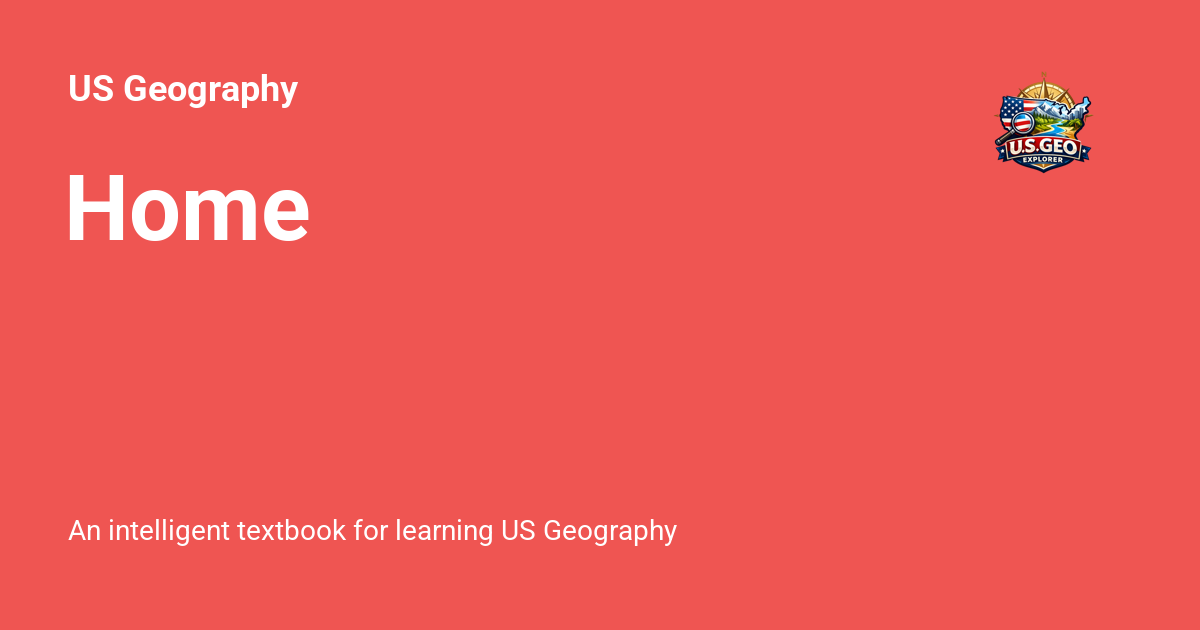
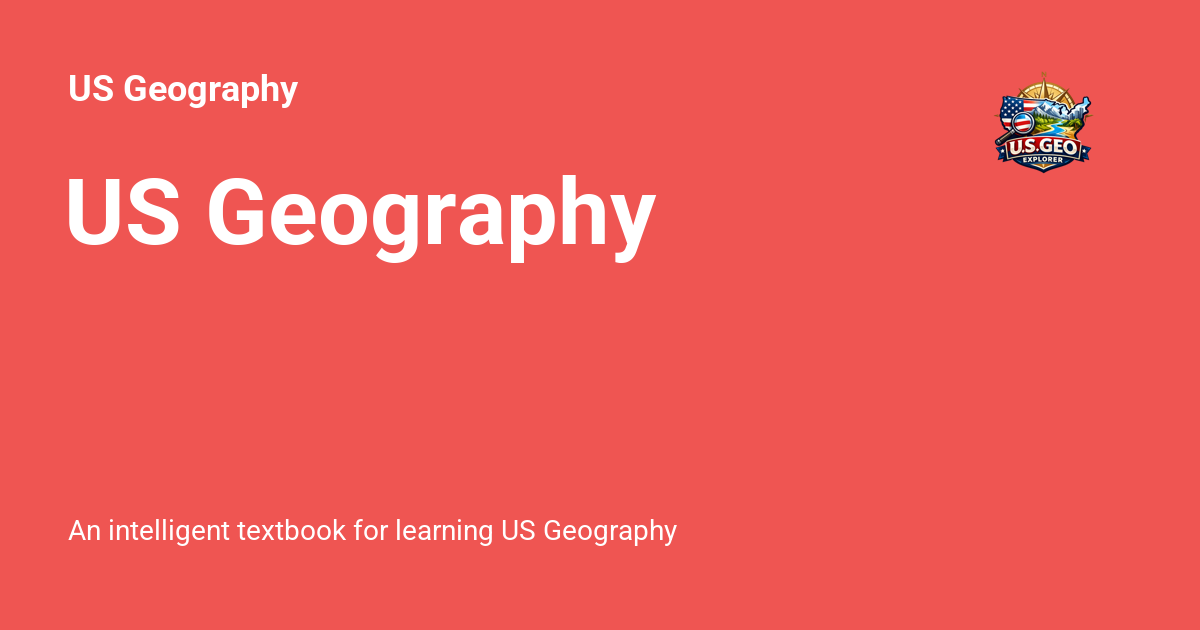
Deployed b41a82b with MkDocs version: 1.6.1

Changed region(s): [[0.0617, 0.2714, 0.555, 0.4222]]

diff --git a/index.html b/index.html
@@ -24,7 +24,7 @@
     
     
       
-        <title>US Geography</title>
+        <title>US Geography - US Geography</title>
       
     
     
@@ -149,7 +149,7 @@
         <div class="md-header__topic" data-md-component="header-topic">
           <span class="md-ellipsis">
             
-              Home
+              US Geography
             
           </span>
         </div>
@@ -228,6 +228,8 @@
         <div class="md-main__inner md-grid">
           
             
+              
+                
               
               <div class="md-sidebar md-sidebar--primary" data-md-component="sidebar" data-md-type="navigation" >
                 <div class="md-sidebar__scrollwrap">
@@ -617,7 +619,9 @@
             
             
               
-              <div class="md-sidebar md-sidebar--secondary" data-md-component="sidebar" data-md-type="toc" >
+                
+              
+              <div class="md-sidebar md-sidebar--secondary" data-md-component="sidebar" data-md-type="toc" hidden>
                 <div class="md-sidebar__scrollwrap">
                   <div class="md-sidebar__inner">
                     
@@ -721,6 +725,8 @@
   
 
 
+  
+
 
 
                 
@@ -742,6 +748,8 @@
         <footer class="md-footer">
   
     
+      
+        
       
       <nav class="md-footer__inner md-grid" aria-label="Footer" >
         
